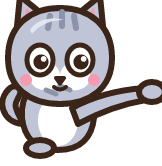
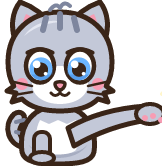
El gato protagonista y el gatito, con más detalle y sin la uva
gato.mjs: pelo en cachetes y pecho, rayas en frente, lomo y cola, ojos con
iris y dos brillos, hocico claro, patas con dedos, sombra en la panza y
brillo en la cabeza; mismas medidas y los seis cuadros (manotazo, garras,
saco). La uva de la cabeza se quita (ahora un mechón). El gatito bebé usa la
misma cara (ojos azules) y abraza su biberón.

Claude-Session: https://claude.ai/code/session_01RXm88NMkoZ62i4aJpAJzSL

diff --git a/gato-idle/README.md b/gato-idle/README.md
@@ -5,7 +5,7 @@ Idle de un gato que tira las cosas de su dueño, de un vaso a la Luna. Celular p
 - Diseño completo: [`docs/DISENO.md`](docs/DISENO.md)
 - Prompt original: [`docs/prompt-original.md`](docs/prompt-original.md)
 
-**Estado:** versión 0.34.0 (arte vectorial dibujado en código, ver DISENO.md §53; el pixel art anterior se ve con `?estilo=pixel`). Al empezar solo se puede dar manotazos; Fuerza, Valor, patrocinios (dinero por ver un anuncio cada 90 s), **críticos** (Garras afiladas y Sombrero ridículo; con las **Garras marcadoras**, cada crítico marca el objeto 10 s y la pandilla pega más), **Saco de jefe** (más daño para los aliados) —las tres cambian el aspecto del gato—, 7 aliados (gatito bebé, ratón, perro, perico, cuervo, mapache, cabra; cada uno mejor que el anterior) la Investigación gatuna y el **Canal del dueño** se van descubriendo conforme se avanza. A media partida el dueño cacha al gato y empieza a grabar: **subir el video** es el reinicio (con opción de **×2 viendo un anuncio**), y deja seguidores (el récord del canal: bono permanente y abren pisos) y visualizaciones, que se gastan en el **árbol del canal**: 4 ramas (Manotazo, Pandilla, Producción, Viral) de 3 pisos, y se puede reiniciar viendo 3 anuncios. 63 objetos, cada uno con su sonido y en su cuarto: 27 en el departamento (cocina, sala, baño, recámara, cuarto de lavado), 12 en la **casa con jardín** (jardín, estudio, cochera), 12 en la **mansión** (salón, cine, alberca) y 12 en **la Luna** (cohete, laboratorio lunar, superficie). El dueño **se muda** a la casa al juntar 80 seguidores y 450K visualizaciones en total, y a la mansión con 400 seguidores, 2.5M visualizaciones y tras vencer al Pepino; desde entonces cada video reinicia en la casa nueva. Al final de cada casa espera un **jefe** (30 segundos para quitarle la vida, con trofeo para siempre): la **Escoba Furiosa** en el departamento, el **Pepino Gigante** en la casa, la **Aspiradora Industrial** en la mansión y el **Veterinario Espacial** en la Luna. **La maquinita del gato** (tragamonedas con fichas, sin dinero real) da premios y un "¿Doble o nada?". Con la segunda casa se abre el **ranking de gatos** (trofeo de arriba): el nivel es el objeto más lejano alcanzado; en la versión compartida por Claude la tabla es compartida. Números de daño con estilo propio y fáciles de leer (fuente Jersey 10 para cifras), medidor de daño por segundo en la escena, compra ×1/×10, moneda con gatito y viñetas de cómic la primera vez que llega una mejora, un aliado o un objeto. La pandilla sigue trabajando mientras no juegas (hasta 2 h, con opción de duplicar viendo un anuncio). **Tutorial** corto en contexto: el gato explica un paso a la vez y una manita señala qué tocar (se puede saltar). **Arte de caricatura plana dibujado en código** (SVG con un solo contorno y paleta, sin herramientas de pago), también en los **cuartos** (paredes, pisos, ventanas, cuadros y muebles) , en los **íconos** (ya no hay emojis), en los **botones y paneles** y en el **ícono de la app** (el gato y el gatito sueltan el manotazo de verdad): el gato con cara de susto y una uva en la cabeza, el shiba de reojo, la cabra que grita, el gato en el robot aspiradora y 27 objetos con su chiste. El progreso se guarda. Botón 🛠 (arriba a la derecha) con el **modo pruebas**: dinero infinito, daño ∞, avanzar como jugador hasta cualquier objeto y puntos de guardado.
+**Estado:** versión 0.34.0 (arte vectorial dibujado en código, ver DISENO.md §53; el pixel art anterior se ve con `?estilo=pixel`). Al empezar solo se puede dar manotazos; Fuerza, Valor, patrocinios (dinero por ver un anuncio cada 90 s), **críticos** (Garras afiladas y Sombrero ridículo; con las **Garras marcadoras**, cada crítico marca el objeto 10 s y la pandilla pega más), **Saco de jefe** (más daño para los aliados) —las tres cambian el aspecto del gato—, 7 aliados (gatito bebé, ratón, perro, perico, cuervo, mapache, cabra; cada uno mejor que el anterior) la Investigación gatuna y el **Canal del dueño** se van descubriendo conforme se avanza. A media partida el dueño cacha al gato y empieza a grabar: **subir el video** es el reinicio (con opción de **×2 viendo un anuncio**), y deja seguidores (el récord del canal: bono permanente y abren pisos) y visualizaciones, que se gastan en el **árbol del canal**: 4 ramas (Manotazo, Pandilla, Producción, Viral) de 3 pisos, y se puede reiniciar viendo 3 anuncios. 63 objetos, cada uno con su sonido y en su cuarto: 27 en el departamento (cocina, sala, baño, recámara, cuarto de lavado), 12 en la **casa con jardín** (jardín, estudio, cochera), 12 en la **mansión** (salón, cine, alberca) y 12 en **la Luna** (cohete, laboratorio lunar, superficie). El dueño **se muda** a la casa al juntar 80 seguidores y 450K visualizaciones en total, y a la mansión con 400 seguidores, 2.5M visualizaciones y tras vencer al Pepino; desde entonces cada video reinicia en la casa nueva. Al final de cada casa espera un **jefe** (30 segundos para quitarle la vida, con trofeo para siempre): la **Escoba Furiosa** en el departamento, el **Pepino Gigante** en la casa, la **Aspiradora Industrial** en la mansión y el **Veterinario Espacial** en la Luna. **La maquinita del gato** (tragamonedas con fichas, sin dinero real) da premios y un "¿Doble o nada?". Con la segunda casa se abre el **ranking de gatos** (trofeo de arriba): el nivel es el objeto más lejano alcanzado; en la versión compartida por Claude la tabla es compartida. Números de daño con estilo propio y fáciles de leer (fuente Jersey 10 para cifras), medidor de daño por segundo en la escena, compra ×1/×10, moneda con gatito y viñetas de cómic la primera vez que llega una mejora, un aliado o un objeto. La pandilla sigue trabajando mientras no juegas (hasta 2 h, con opción de duplicar viendo un anuncio). **Tutorial** corto en contexto: el gato explica un paso a la vez y una manita señala qué tocar (se puede saltar). **Arte de caricatura plana dibujado en código** (SVG con un solo contorno y paleta, sin herramientas de pago), también en los **cuartos** (paredes, pisos, ventanas, cuadros y muebles) , en los **íconos** (ya no hay emojis), en los **botones y paneles** y en el **ícono de la app** (el gato y el gatito sueltan el manotazo de verdad): el gato con cara de susto, el shiba de reojo, la cabra que grita, el gato en el robot aspiradora y 27 objetos con su chiste. El progreso se guarda. Botón 🛠 (arriba a la derecha) con el **modo pruebas**: dinero infinito, daño ∞, avanzar como jugador hasta cualquier objeto y puntos de guardado.
 
 ## Requisitos
 

diff --git a/gato-idle/docs/DISENO.md b/gato-idle/docs/DISENO.md
@@ -721,7 +721,7 @@ Llega el primer arte de verdad, generado con PixelLab. **Principio: los personaj
 
 | Personaje | Inspiración |
 |---|---|
-| Gato (protagonista) | Gato crema con ojos enormes de susto y **una uva en la cabeza** |
+| Gato (protagonista) | Gato naranja atigrado con ojos enormes de susto (la uva de la cabeza se quitó en 0.34.0) |
 | Gato con saco | El mismo, con saco negro, camisa y corbata roja (editado con Pixen para que sea idéntico) |
 | Sombrero ridículo | **Sombrero de copa negro de mago**, brillante y con banda gris, para combinar con el saco (0.18.3; antes gorra de hélice) |
 | Garras afiladas | Tres uñas de metal en la pata (se ven en el cuadro del manotazo, §35) |
@@ -748,7 +748,7 @@ Pendiente de arte: fondos de los cuartos y superficies, ilustraciones propias pa
 
 ## 34. Tutorial: el gato te explica (versión 0.17.0)
 
-Un tutorial **corto y en contexto**: el gato (con su cara de susto y su uva) habla en un globito al pie de la escena, **un paso a la vez y solo cuando ya se puede hacer lo que pide**. Lo que hay que tocar brilla en dorado y una manita 👆 lo señala (si está abajo en la lista, se desplaza solo hasta verlo). Nunca bloquea: se puede seguir tocando la escena, y siempre está "Saltar tutorial".
+Un tutorial **corto y en contexto**: el gato (con su cara de susto) habla en un globito al pie de la escena, **un paso a la vez y solo cuando ya se puede hacer lo que pide**. Lo que hay que tocar brilla en dorado y una manita 👆 lo señala (si está abajo en la lista, se desplaza solo hasta verlo). Nunca bloquea: se puede seguir tocando la escena, y siempre está "Saltar tutorial".
 
 | Paso | Cuándo sale | El gato dice | Se cierra |
 |---|---|---|---|
